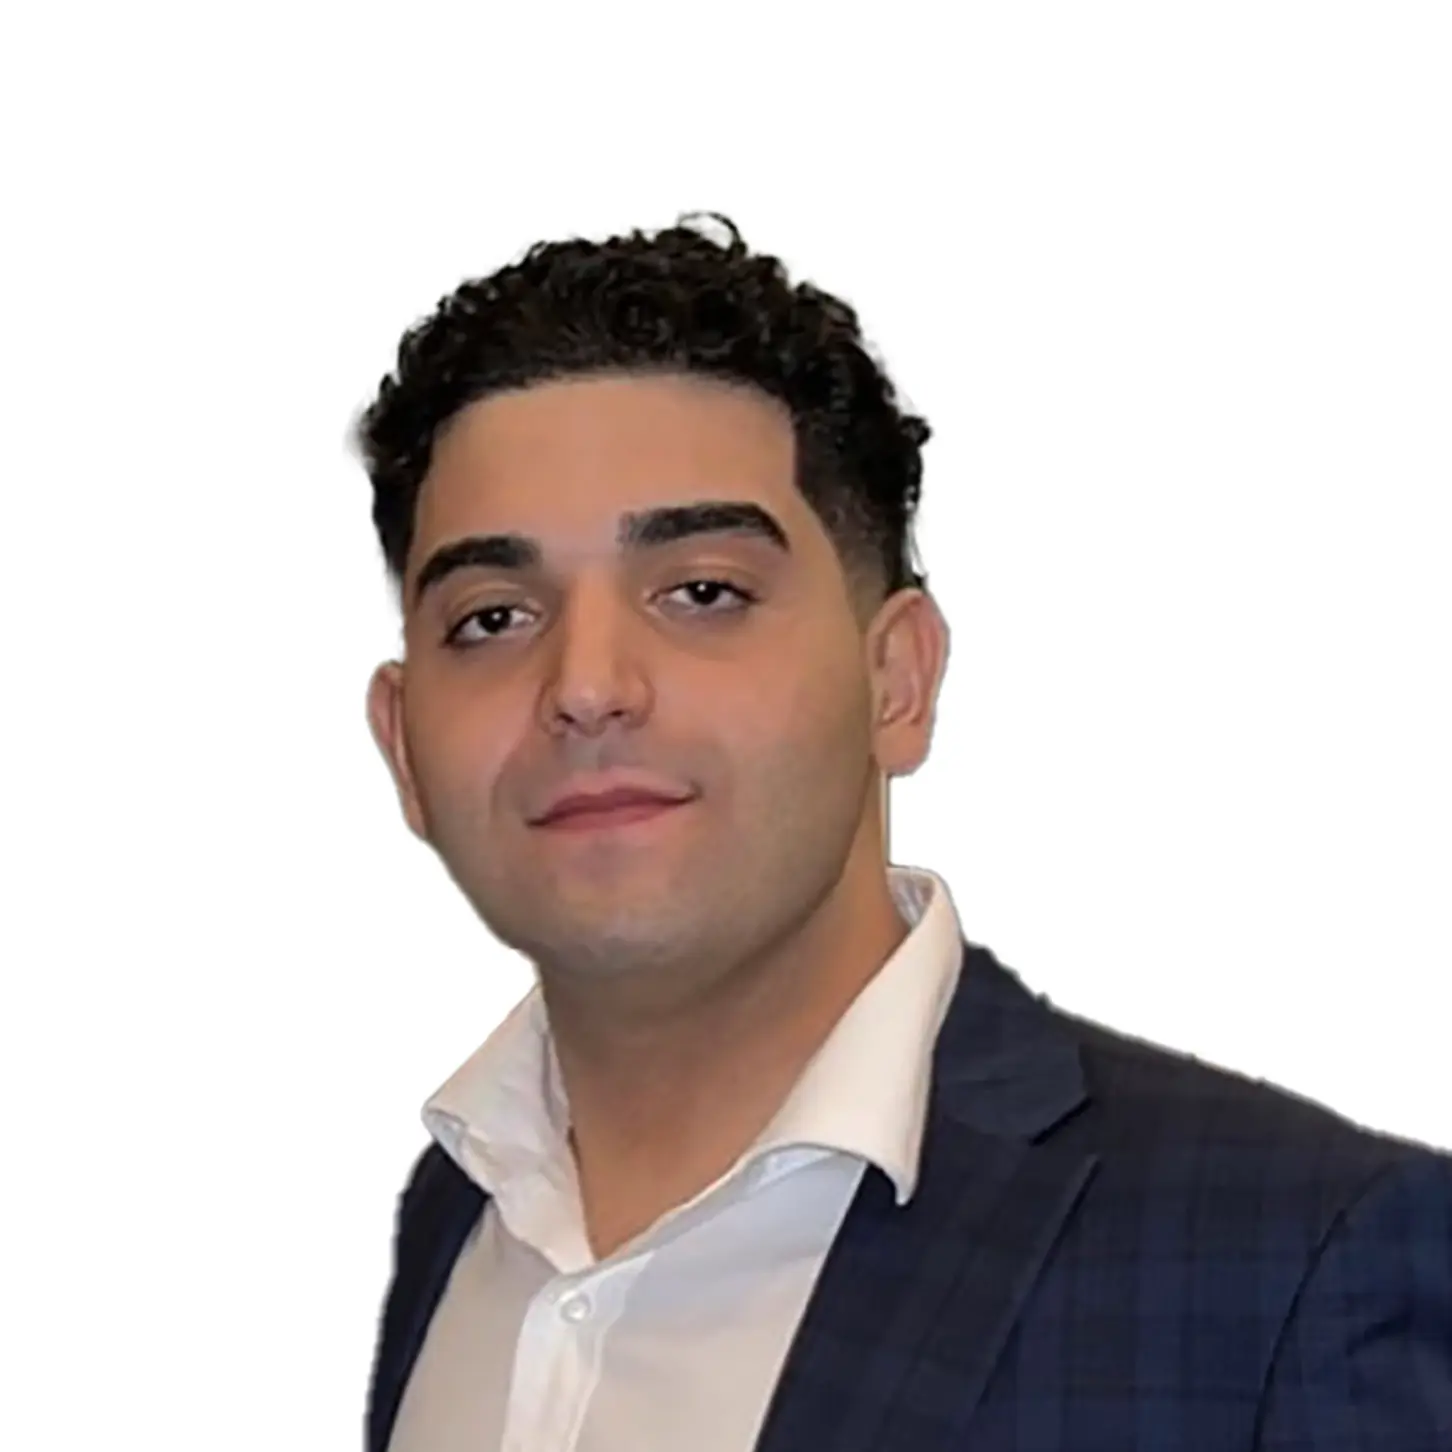
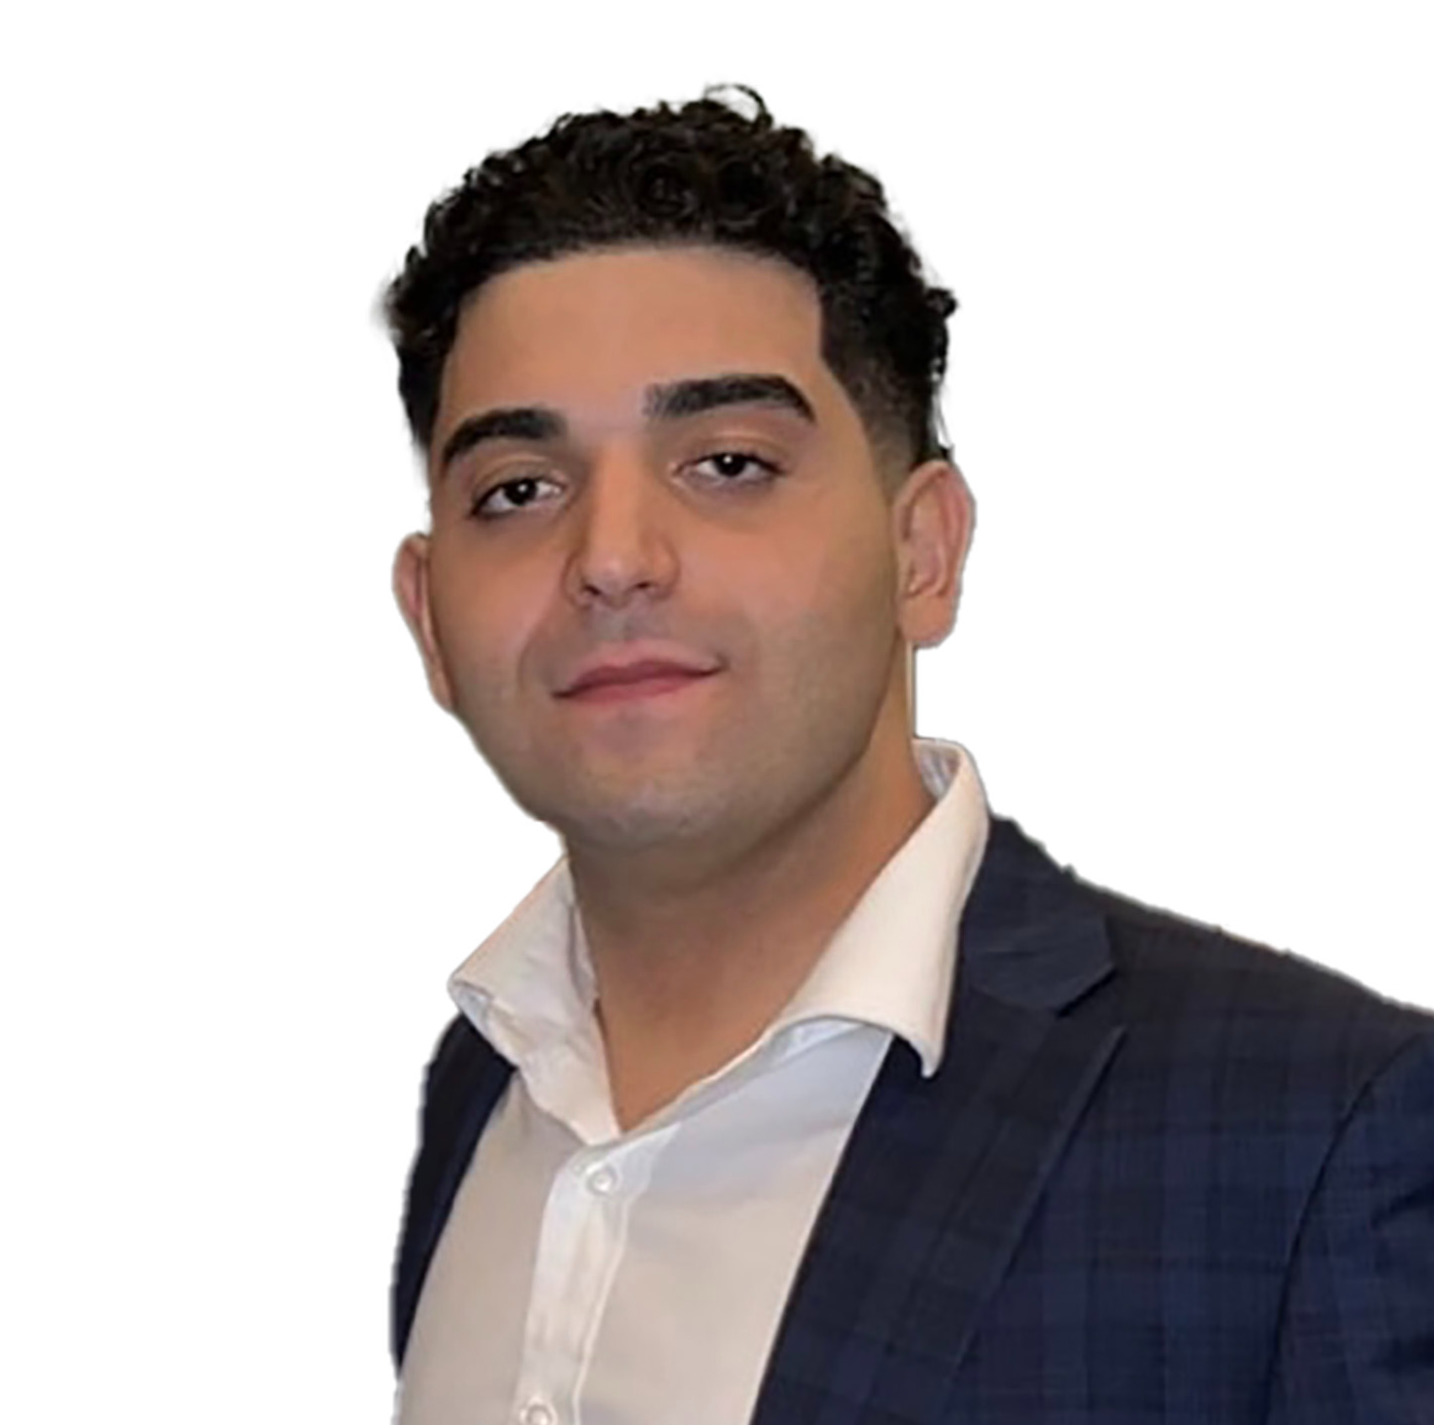
Update 1.9
Alex Bio Added, Nav tab added. Minor corrections made.

diff --git a/alex.html b/alex.html
@@ -28,16 +28,43 @@
             <p>CARE Commercial Group Co-Founder</p>
         </header>
 
+        <nav id="nav" class="topnav-centered">
+            <ul>
+                <li><a href="index.html">Our Services</a></li>
+                <li><a href="team.html">Team</a></li>
+                <li><a href="listings.html">Listings</a></li>
+            </ul>
+        </nav>
+
         <!-- Main -->
         <div id="main">
 
             <!-- Content -->
             <section id="content" class="main">
-                <p></p>
-                <h2>Education</h2>
-                <h2>Professional Affiliations</h2>
-                <h2>Community Involvement</h2>
+                <p><span class="image right"><img src="images/alexheadshot2.webp" alt="Alex Kanstantsinau" /></span>
+                    Hailing from Minsk, Belarus, Alex brings a unique perspective to the table. Decisive and fearless,
+                    Alex immigrated to the U.S. at the age of 17 to pursue opportunity. Upon arrival, his journey began
+                    at Cornerstone University,
+                    where he led the Men’s Varsity tennis team as a captain.</p>
+                <p>Alex graduated with a bachelors degree in Finance and Mathematics,
+                    and was involved in the creation of the CU Investment Club and various diversity programs.</p>
+                <p>He is known for his innate ability to handle adversity, which stems from his creativeness and logical
+                    approach to problem solving.
+                    His passion for entrepreneurship developed through several minor business ventures. He is a major
+                    contributor and co-founder of a
+                    large B2C intermediary for moving services – UrMove; it is currently present in 28 states.</p>
+                <p>His keen eye for good hospitality derives from more than being at premier tennis facilities and their
+                    prestigious events. His ability to lead
+                    and relentless drive ultimately
+                    motivated Alex to join Coldwell Banker. The Schmidt family of companies shares his passion and gives
+                    him the resources necessary to
+                    provide exemplary service for all sales and leasing regarding Hospitality and Retail.</p>
+                <ul class="icons">
+                    <li><a href="#" class="icon solid fa-link alt"><span class="label">LinkTree</span></a></li>
+                    <li><a href="#" class="icon brands fa-linkedin alt"><span class="label">LinkedIn</span></a>
+                </ul>
             </section>
+
 
         </div>
 
@@ -46,9 +73,10 @@
             <section>
                 <h2>Send CARE Group a Message</h2>
                 <form method="post" action="#">
-                    <input type="text" name="name" id="name" value="Joe Doe" required /><br>
-                    <input type="text" name="name" id="name" value="(616) 957-1680" required /><br>
-                    <textarea name="message" id="message" rows="4" required>Type your comment here</textarea><br>
+                    <input type="text" name="name" id="name" placeholder="First name Last name" required /><br>
+                    <input type="text" name="name" id="name" placeholder="(616) 957-1680" required /><br>
+                    <textarea name="message" id="message" rows="4" placeholder="Leave your comment here"
+                        required></textarea><br>
                     <a href="mailto: aliaksei.kanstantsinau@gmail.com" class="button submit">Send</a>
                 </form>
             </section>

diff --git a/listings.html b/listings.html
@@ -58,7 +58,7 @@
                         <p>Self-service car wash site. </p>
                         <a href="#" class="button icon solid fa-upload">Brochure</a>
                     </div>
-                    <span class="image"><img src="images/pic02.jpg" alt="" /></span>
+                    <span class="image"><img src="images/carwash.webp" alt="" /></span>
 
                 </div>
             </section>
@@ -72,7 +72,7 @@
                         <p>Floral Business.</p>
                         <a href="#" class="button icon solid fa-upload">Brochure</a>
                     </div>
-                    <span class="image"><img src="images/pic02.jpg" alt="" /></span>
+                    <span class="image"><img src="images/flowershop.webp" alt="" /></span>
                 </div>
             </section>
 
@@ -85,7 +85,7 @@
                         <p>Vacant lot in center of Greenville. Current use is Commercial.</p>
                         <a href="#" class="button icon solid fa-upload">Brochure</a>
                     </div>
-                    <span class="image"><img src="images/pic02.jpg" alt="" /></span>
+                    <span class="image"><img src="images/112W.webp" alt="" /></span>
                 </div>
             </section>
 
@@ -98,7 +98,7 @@
                         <p>Prime building lot in the center of Greenville. Current use is Commercial.</p>
                         <a href="#" class="button icon solid fa-upload">Brochure</a>
                     </div>
-                    <span class="image"><img src="images/pic02.jpg" alt="" /></span>
+                    <span class="image"><img src="images/112W.webp" alt="" /></span>
                 </div>
             </section>
 
@@ -111,7 +111,7 @@
                         <p>Lot on the main street for residential or office/retail.</p>
                         <a href="#" class="button icon solid fa-upload">Brochure</a>
                     </div>
-                    <span class="image"><img src="images/pic02.jpg" alt="" /></span>
+                    <span class="image"><img src="images/924W.webp" alt="" /></span>
                 </div>
             </section>
 
@@ -122,7 +122,7 @@
             <section>
                 <h2>Send CARE Group a Message</h2>
                 <form method="post" action="#">
-                    <input type="text" name="name" id="name" value="First and Last Name" required /><br>
+                    <input type="text" name="name" id="name" placeholder="First name Last name" required /><br>
                     <input type="text" name="name" id="name" value="(616) 957-1680" required /><br>
                     <textarea name="message" id="message" rows="4" required>Type your comment here</textarea><br>
                     <a href="mailto: aliaksei.kanstantsinau@gmail.com" class="button submit">Send</a>

diff --git a/cody.html b/cody.html
@@ -28,6 +28,14 @@
             <p>CARE Commercial Group Co-Founder</p>
         </header>
 
+        <nav id="nav" class="topnav-centered">
+            <ul>
+                <li><a href="index.html">Our Services</a></li>
+                <li><a href="team.html">Team</a></li>
+                <li><a href="listings.html">Listings</a></li>
+            </ul>
+        </nav>
+
         <!-- Main -->
         <div id="main">
 
@@ -40,9 +48,10 @@
                     as the #1
                     program in the nation. After graduation, he returned to his hometown and joined Coldwell Banker
                     Commercial. He specializes in sales and leasing in Hospitality and Retail. </p>
-                <p>He is experienced in business management, property management, and marketing. His and his Father
+                <p>He is experienced in business management, property management, and marketing. His and his father
                     have a long standing business in the City of Grand Rapids. One of the premier liquor stores in
-                    theregion, Hall Street Party Store. Cody has made significant contributions to his father’s business
+                    the region, Hall Street Party Store. Cody has made significant contributions to his father’s
+                    business
                     and
                     his investments, which are also all local. He prioritizes efficiency, community engagement and
                     customer
@@ -66,9 +75,10 @@
             <section>
                 <h2>Send CARE Group a Message</h2>
                 <form method="post" action="#">
-                    <input type="text" name="name" id="name" value="Joe Doe" required /><br>
-                    <input type="text" name="name" id="name" value="(616) 957-1680" required /><br>
-                    <textarea name="message" id="message" rows="4" required>Type your comment here</textarea><br>
+                    <input type="text" name="name" id="name" placeholder="First name Last name" required /><br>
+                    <input type="text" name="name" id="name" placeholder="(616) 957-1680" required /><br>
+                    <textarea name="message" id="message" rows="4" placeholder="Leave your comment here"
+                        required></textarea><br>
                     <a href="mailto: aliaksei.kanstantsinau@gmail.com" class="button submit">Send</a>
                 </form>
             </section>

diff --git a/team.html b/team.html
@@ -72,7 +72,7 @@
                         </header>
                         <p>Co-Founder</p>
                     </div>
-                    <span class="image"><img src="images/alexheadshotsquare.webp" alt="" /></span>
+                    <span class="image"><img src="images/alexheadshot2.webp" alt="" /></span>
                 </div>
             </section>
 
@@ -83,9 +83,10 @@
             <section>
                 <h2>Send CARE Group a Message</h2>
                 <form method="post" action="#">
-                    <input type="text" name="name" id="name" value="First and Last Name" required /><br>
-                    <input type="text" name="name" id="name" value="(616) 957-1680" required /><br>
-                    <textarea name="message" id="message" rows="4" required>Type your comment here</textarea><br>
+                    <input type="text" name="name" id="name" placeholder="First name Last name" required /><br>
+                    <input type="text" name="name" id="name" placeholder="(616) 957-1680" required /><br>
+                    <textarea name="message" id="message" rows="4" placeholder="Leave your comment here"
+                        required></textarea><br>
                     <a href="mailto: aliaksei.kanstantsinau@gmail.com" class="button submit">Send</a>
                 </form>
             </section>

diff --git a/index.html b/index.html
@@ -71,7 +71,7 @@
 			<section>
 				<h2>Send CARE Group a Message</h2>
 				<form method="post" action="#">
-					<input type="text" name="name" id="name" placeholder="First and Last Name" required /><br>
+					<input type="text" name="name" id="name" placeholder="First name Last name" required /><br>
 					<input type="text" name="name" id="name" placeholder="(616) 957-1680" required /><br>
 					<textarea name="message" id="message" rows="4" placeholder="Leave your comment here"
 						required></textarea><br>
